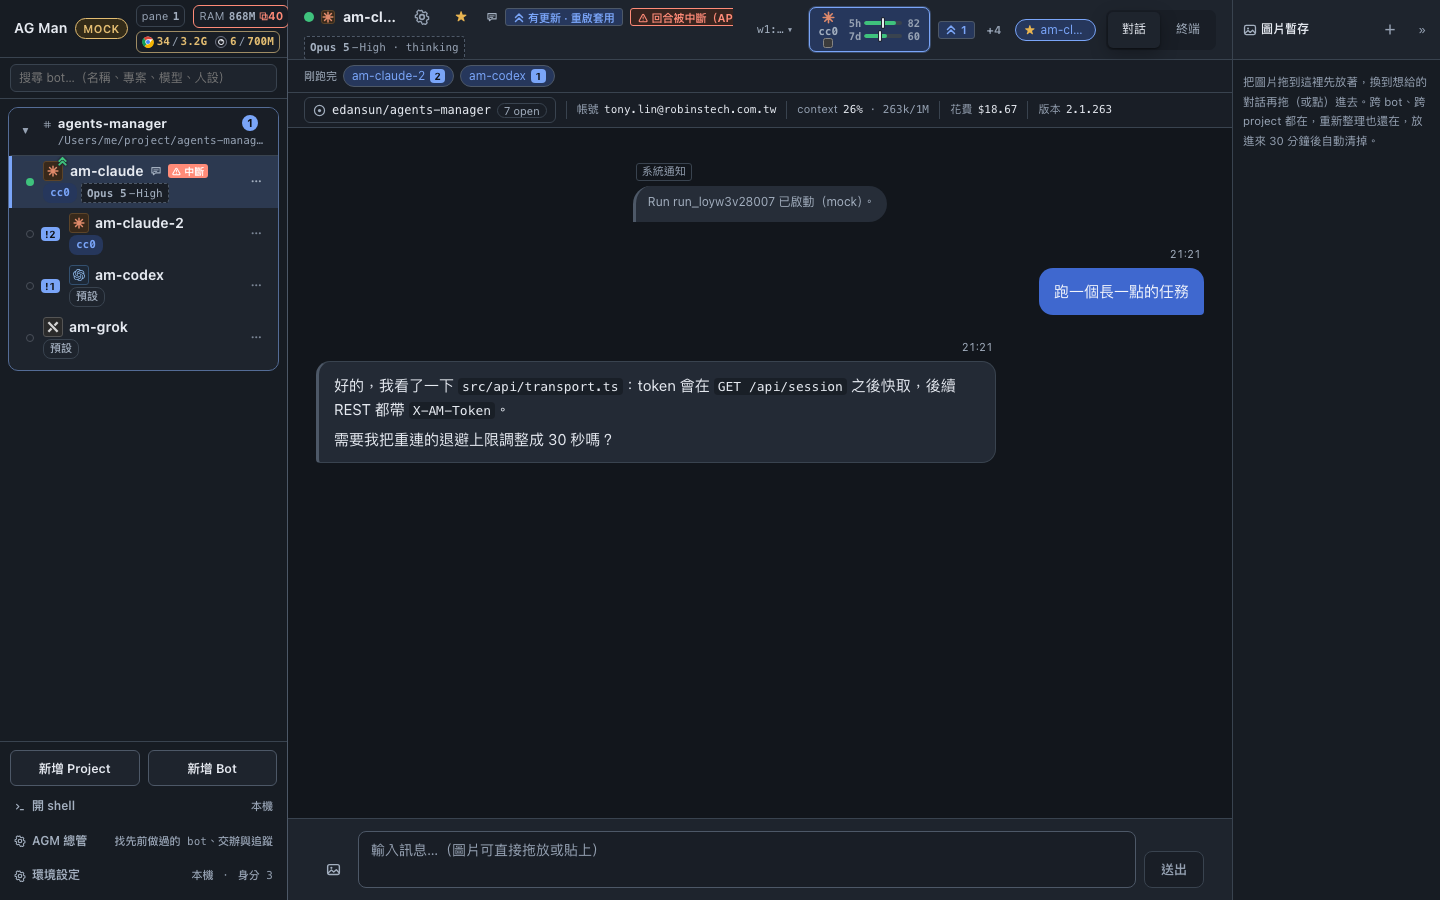
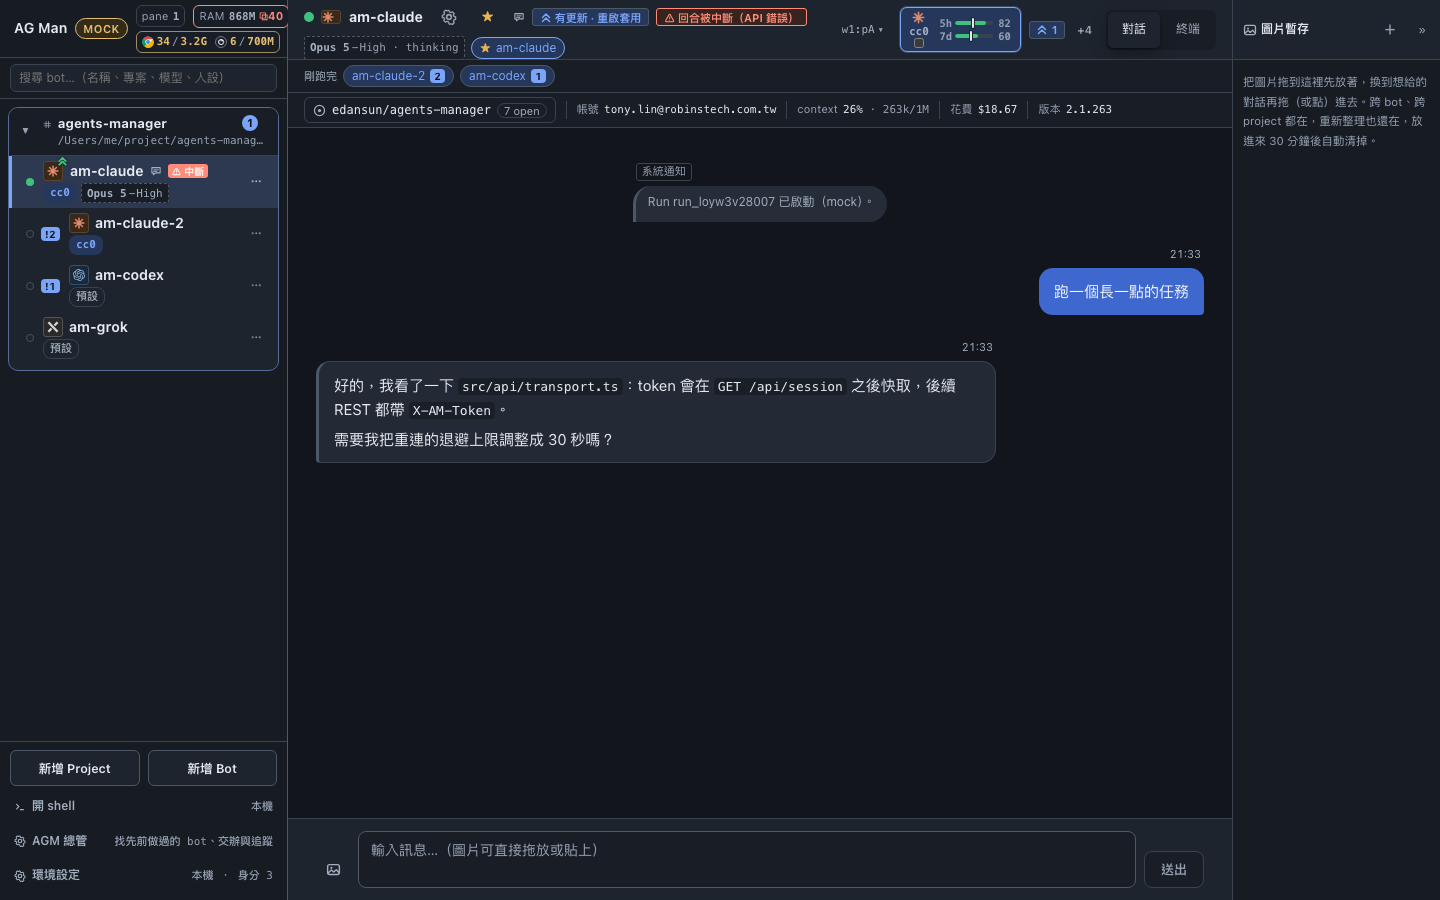
fix(web): 釘選改掛在 bot 名字下面那一行，順手修標題列左半邊被切掉的兩處
使用者截圖（1440 實機、四種額度都在）顯示右上角根本沒有空間：釘選晶片被額度條
擠成半顆。名字下面那一行本來只有一顆模型標籤、空著，而且跟 bot 身分同一區，
所以釘選搬到那裡（`.main-title-sub`）。

同一張截圖上的另外兩個問題一起修：
- `.main-title` 是 overflow: hidden 的直排，模型標籤超出去是被**硬切**（`… thi` 斷在
  框中間）。那一行改成可壓縮的 flex，標籤縮到極限時收成 `…`。
- 名字被額度條壓成 `0-op…`。桌面給 `.main-title` 168px 的下限，手機不套（那邊本來就換行）。

驗證：tsc -b、oxlint（無新 warning）、bun run build；mock 截圖：釘一顆（與模型標籤
並排）、釘兩顆，加桌面／手機各一張，放 docs/screenshots/unread-header/。
daemon 沒動。

Changed region(s): [[0.2188, 0.0, 0.7812, 0.0933]]

diff --git a/web/src/components/ChatPanel.tsx b/web/src/components/ChatPanel.tsx
@@ -1265,22 +1265,27 @@ export function ChatPanel({ onOpenSidebar }: { onOpenSidebar: () => void }) {
               showing nothing. The settings (`高 · thinking`) ride along as a dim suffix —
               they used to cost the status bar its own 模型 field. Second row under the name
               so the identity row above doesn't have to yield space to it. */}
-          {bot.model || statusInfo?.model_name ? (
-            <ModelQuickPicker
-              botId={botId}
-              kind={bot.kind}
-              host={hostName}
-              className={`model-tag${bot.model ? '' : ' reported'}`}
-              title={
-                bot.model
-                  ? `點一下改模型（${bot.model}）`
-                  : `CLI 預設，實際載入 ${statusInfo?.model_name}。點一下改模型`
-              }
-            >
-              {bot.model ?? statusInfo?.model_name}
-              {modelExtra ? <span className="model-tag-extra">{modelExtra}</span> : null}
-            </ModelQuickPicker>
-          ) : null}
+          {/* 名字下面那一行：模型標籤與 ★ 釘選。標題列那條線已經被額度條佔滿（2026-09-10
+              實測釘選放右上角會被擠掉一半），這一行本來只有一顆模型標籤，空著。 */}
+          <div className="main-title-sub">
+            {bot.model || statusInfo?.model_name ? (
+              <ModelQuickPicker
+                botId={botId}
+                kind={bot.kind}
+                host={hostName}
+                className={`model-tag${bot.model ? '' : ' reported'}`}
+                title={
+                  bot.model
+                    ? `點一下改模型（${bot.model}）`
+                    : `CLI 預設，實際載入 ${statusInfo?.model_name}。點一下改模型`
+                }
+              >
+                {bot.model ?? statusInfo?.model_name}
+                {modelExtra ? <span className="model-tag-extra">{modelExtra}</span> : null}
+              </ModelQuickPicker>
+            ) : null}
+            <PrimaryChips />
+          </div>
         </div>
         <span className="spacer" />
         {/* pane id 而不是狀態文字：狀態看左邊的燈號就好（它自己帶 tooltip），這個位置留給
@@ -1305,7 +1310,6 @@ export function ChatPanel({ onOpenSidebar }: { onOpenSidebar: () => void }) {
         <QuotaStrip focusKind={bot.kind} focusIdentity={bot.identity} host={hostName} />
         {/* 遠端才掛：本機的數字固定在左上角，這裡再放一次只是重複。 */}
         <MemBadge host={hostName} onlyRemote />
-        <PrimaryChips />
         <div className="tabs" role="tablist">
           <button
             type="button"

diff --git a/web/src/styles.css b/web/src/styles.css
@@ -2309,6 +2309,32 @@ button.run-debug-toggle:hover:not(:disabled) {
   margin-left: -5px;
 }
 
+/* 名字下面那一行：模型標籤 + ★ 釘選（`PrimaryChips`）。`.main-title` 是 `overflow: hidden`
+   的直排，子元素超出去會被硬切（2026-09-10 使用者截圖：`opus-Medium · thi` 從中間斷掉）。
+   所以這一行自己是可壓縮的 flex，裡面的東西縮到不能再縮時收成 `…`，不是被切一半。 */
+.bot-head .main-title-sub {
+  display: flex;
+  align-items: center;
+  gap: 6px;
+  min-width: 0;
+  max-width: 100%;
+}
+
+.bot-head .main-title-sub > .model-tag {
+  flex: 0 1 auto;
+  min-width: 0;
+  overflow: hidden;
+  text-overflow: ellipsis;
+}
+
+/* 桌面：名字至少留這麼寬，額度條再長也不能把它壓成 `0-op…`（同一張截圖）。手機沒有這條，
+   那邊標題列本來就會換行。 */
+@media (min-width: 721px) {
+  .bot-head .main-title {
+    min-width: 168px;
+  }
+}
+
 .bot-head .main-title-row > strong,
 .bot-head .main-title-row > .bot-name-btn,
 .bot-head .main-title-row > .bot-name-input {
